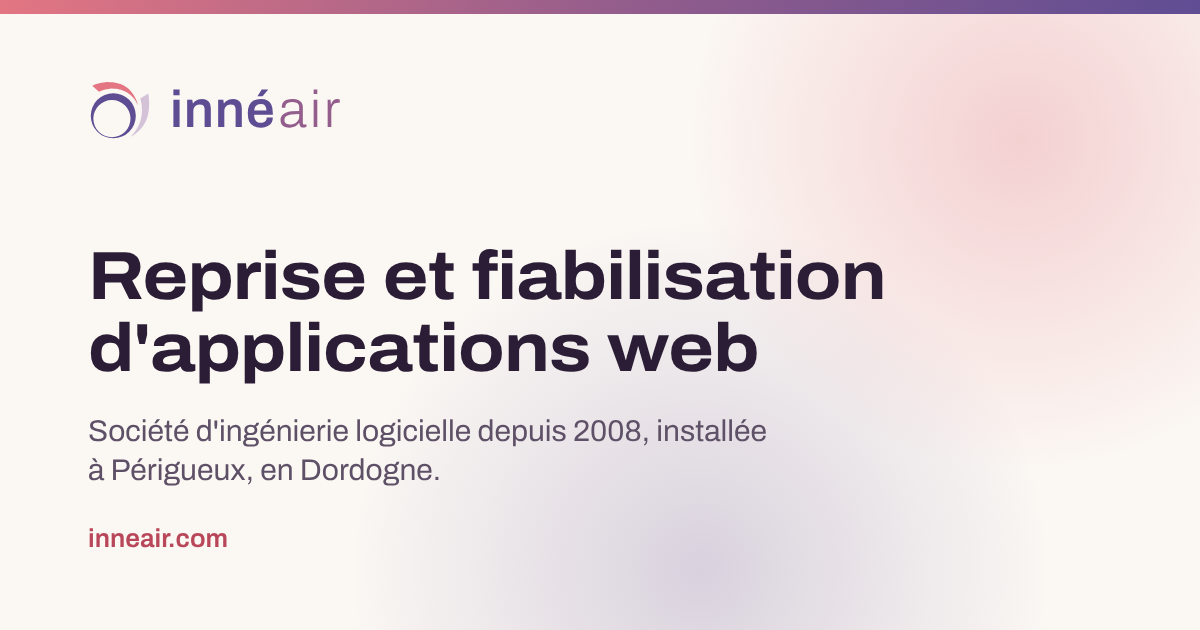
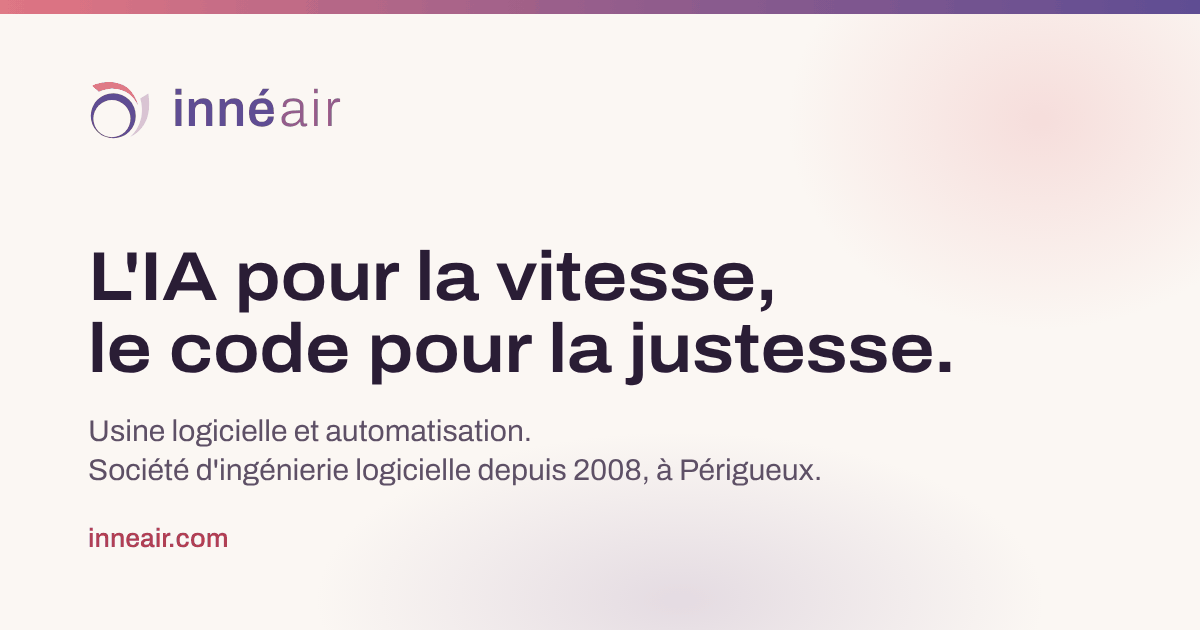
feat: update the default sharing image to the new line
The default preview image, used by the home, company, principles,
projects and services pages, read "Reprise et fiabilisation
d'applications web". It now carries "L'IA pour la vitesse, le code pour
la justesse." and "Usine logicielle et automatisation", in the same
layout. The alternative texts of the pages that use it follow, except
the services page, which will be rewritten next.

Claude-Session: https://claude.ai/code/session_01AzLCSS1aF1JWroLiBEA8zE

diff --git a/entreprise/index.html b/entreprise/index.html
@@ -15,7 +15,7 @@
 	<meta property="og:image" content="https://inneair.com/images/og-inneair.png">
 	<meta property="og:image:width" content="1200">
 	<meta property="og:image:height" content="630">
-	<meta property="og:image:alt" content="Innéair, reprise et fiabilisation d'applications web">
+	<meta property="og:image:alt" content="Innéair, usine logicielle et automatisation : l'IA pour la vitesse, le code pour la justesse">
 	<meta name="twitter:card" content="summary_large_image">
 	<link rel="preload" href="/assets/fonts/archivo-latin.woff2" as="font" type="font/woff2" crossorigin>
 	<link rel="stylesheet" href="/assets/css/main.css">

diff --git a/entreprise/principes.html b/entreprise/principes.html
@@ -15,7 +15,7 @@
 	<meta property="og:image" content="https://inneair.com/images/og-inneair.png">
 	<meta property="og:image:width" content="1200">
 	<meta property="og:image:height" content="630">
-	<meta property="og:image:alt" content="Innéair, reprise et fiabilisation d'applications web">
+	<meta property="og:image:alt" content="Innéair, usine logicielle et automatisation : l'IA pour la vitesse, le code pour la justesse">
 	<meta name="twitter:card" content="summary_large_image">
 	<link rel="preload" href="/assets/fonts/archivo-latin.woff2" as="font" type="font/woff2" crossorigin>
 	<link rel="stylesheet" href="/assets/css/main.css">

diff --git a/realisations/index.html b/realisations/index.html
@@ -15,7 +15,7 @@
 	<meta property="og:image" content="https://inneair.com/images/og-inneair.png">
 	<meta property="og:image:width" content="1200">
 	<meta property="og:image:height" content="630">
-	<meta property="og:image:alt" content="Innéair, reprise et fiabilisation d'applications web">
+	<meta property="og:image:alt" content="Innéair, usine logicielle et automatisation : l'IA pour la vitesse, le code pour la justesse">
 	<meta name="twitter:card" content="summary_large_image">
 	<link rel="preload" href="/assets/fonts/archivo-latin.woff2" as="font" type="font/woff2" crossorigin>
 	<link rel="stylesheet" href="/assets/css/main.css">
